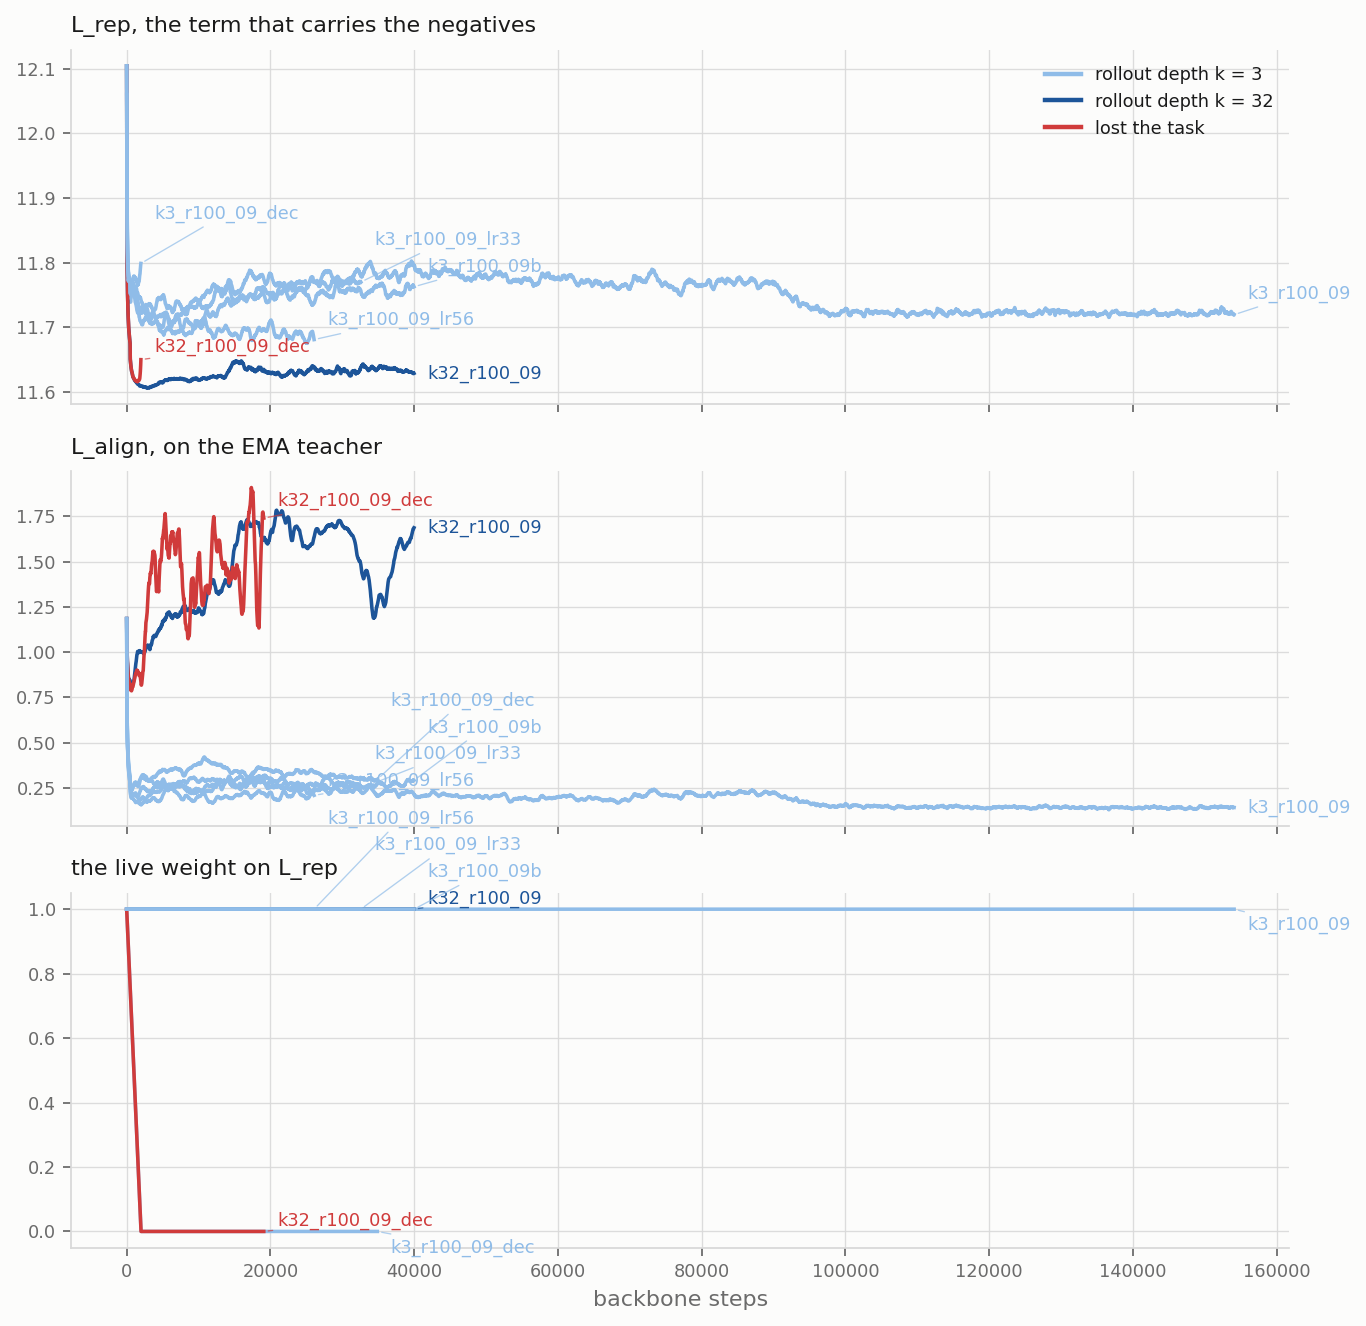
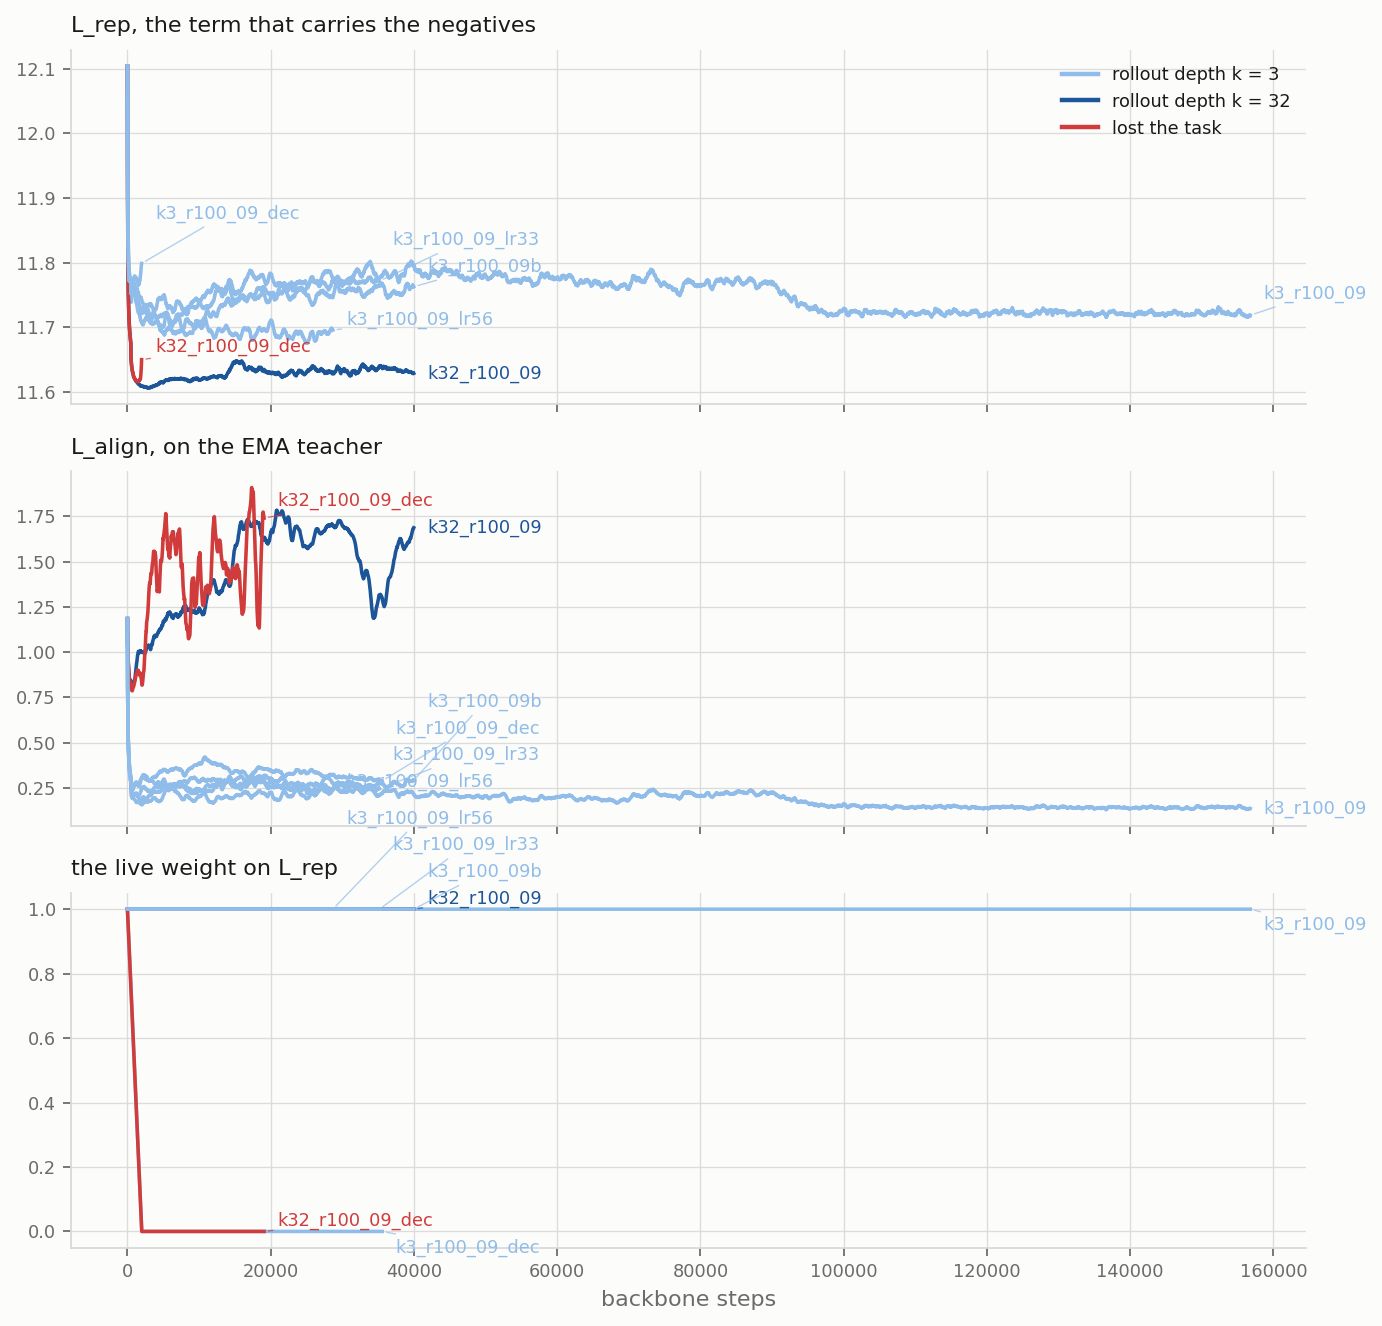
doc(#412): the two sessions agreed the card split, and lr17 has one owner

diff --git a/reports/2026-09-06_moirai_small_size/results/tables.md b/reports/2026-09-06_moirai_small_size/results/tables.md
@@ -17,10 +17,10 @@ The band is **0.0568** (this card measured it at 11.4M). Two numbers closer than
 | k32_r100_09_dec | lost | 0.5014 | 19100 | 0.5014 | 19100 |
 | k3_r100_09 | held | 0.9931 | 1942 | 0.9988 | 40000 |
 | k3_r100_09 | held | 0.9974 | 40001 | 0.9994 | 100000 |
-| k3_r100_09 | held | 0.9992 | 144399 | 0.9994 | 154000 |
-| k3_r100_09_dec | held | 0.9797 | 9690 | 0.9975 | 34900 |
-| k3_r100_09_lr33 | held | 0.9913 | 3337 | 0.9988 | 32600 |
-| k3_r100_09_lr56 | held | 0.9958 | 22269 | 0.9974 | 26000 |
+| k3_r100_09 | held | 0.9992 | 144399 | 0.9993 | 156800 |
+| k3_r100_09_dec | held | 0.9797 | 9690 | 0.9980 | 35600 |
+| k3_r100_09_lr33 | held | 0.9913 | 3337 | 0.9988 | 35200 |
+| k3_r100_09_lr56 | held | 0.9958 | 22269 | 0.9976 | 28600 |
 | k3_r100_09b | held | 0.9922 | 1869 | 0.9982 | 40000 |
 
 ### The contrastive AUC, step by step
@@ -44,11 +44,11 @@ Lower is worse. A run at 0.5 has lost the task. The last column is what the same
 | k32_r100_09 | 40,000 | 40,000 | 13.4947 | 11.6270 | 1.7583 | 1.00 | 0.9400 | 0.7629 |
 | k32_r100_09_dec | 40,000 | 19,100 | 1.8013 | — | 1.8219 | 0.00 | 0.9191 | 0.5010 |
 | k3_r100_09 | 100,000 | 100,000 | 12.3238 | 11.7174 | 0.1472 | 1.00 | 1.0000 | 0.9997 |
-| k3_r100_09 | 200,000 | 154,000 | 12.2362 | 11.7226 | 0.1312 | 1.00 | 1.0000 | 0.9989 |
+| k3_r100_09 | 200,000 | 156,800 | 12.2346 | 11.7131 | 0.1315 | 1.00 | 1.0000 | 0.9980 |
 | k3_r100_09 | 40,000 | 40,000 | 12.5323 | 11.7822 | 0.1852 | 1.00 | 0.9400 | 0.9993 |
-| k3_r100_09_dec | 40,000 | 34,900 | 1.2173 | — | 0.2804 | 0.00 | 0.9349 | 0.9987 |
-| k3_r100_09_lr33 | 40,000 | 32,600 | 12.7230 | 11.7588 | 0.2288 | 1.00 | 0.9326 | 0.9981 |
-| k3_r100_09_lr56 | 40,000 | 26,000 | 12.6053 | 11.6742 | 0.1881 | 1.00 | 0.9260 | 0.9974 |
+| k3_r100_09_dec | 40,000 | 35,600 | 1.4454 | — | 0.3262 | 0.00 | 0.9356 | 0.9975 |
+| k3_r100_09_lr33 | 40,000 | 35,200 | 12.7205 | 11.7576 | 0.2243 | 1.00 | 0.9352 | 0.9993 |
+| k3_r100_09_lr56 | 40,000 | 28,600 | 12.6917 | 11.6873 | 0.2146 | 1.00 | 0.9286 | 0.9988 |
 | k3_r100_09b | 40,000 | 40,000 | 12.9777 | 11.7567 | 0.2832 | 1.00 | 0.9400 | 0.9984 |
 
 ### The cost

diff --git a/reports/2026-09-06_moirai_small_size/EXECUTION_LOG.md b/reports/2026-09-06_moirai_small_size/EXECUTION_LOG.md
@@ -110,14 +110,20 @@ overlap.
 
 ## The two cards carry different work
 
-- gpu 0 carries backbones. `scripts/queue_backbones.sh` holds
-  `k32_r200_08`, then `k8_r100_09`, then `k3_r100_09_lr17`, largest memory
-  need first. A small arm ahead of a large one takes the window and leaves
-  the large one waiting.
-- gpu 1 carries every head. `scripts/head_sweep.sh` is the net.
-  `scripts/head_claim.sh` takes the checkpoints that no lane will claim, the
-  moment they land, because the five-minute age gate of both sweeps protects
-  a lane that no longer exists.
+The two sessions agreed this split by message at 05:30 on 2026-09-07.
+
+- gpu 0 carries the released backbones. `scripts/queue_backbones.sh` holds
+  `k32_r200_08`, then `k8_r100_09`, largest memory need first. A small arm
+  ahead of a large one takes the window and leaves the large one waiting.
+- gpu 1 carries the rate sweep and every head. `scripts/head_sweep.sh` is the
+  net over all arms. `scripts/head_claim.sh` takes the four checkpoints that
+  no lane will claim, the moment they land, because the five-minute age gate
+  of a sweep protects a lane that no longer exists.
+
+`k3_r100_09_lr17` belongs to lane D, pid 1102993, which holds
+`ARMS="k3_r100_09_lr33 k3_r100_09_lr17"` on gpu 1 and reaches lr17 after
+lr33's head and evaluation. The queue on gpu 0 carried it for eight minutes
+and dropped it before it started, so no arm trained twice.
 
 ## `results/lane_d.log` is not committed
 
